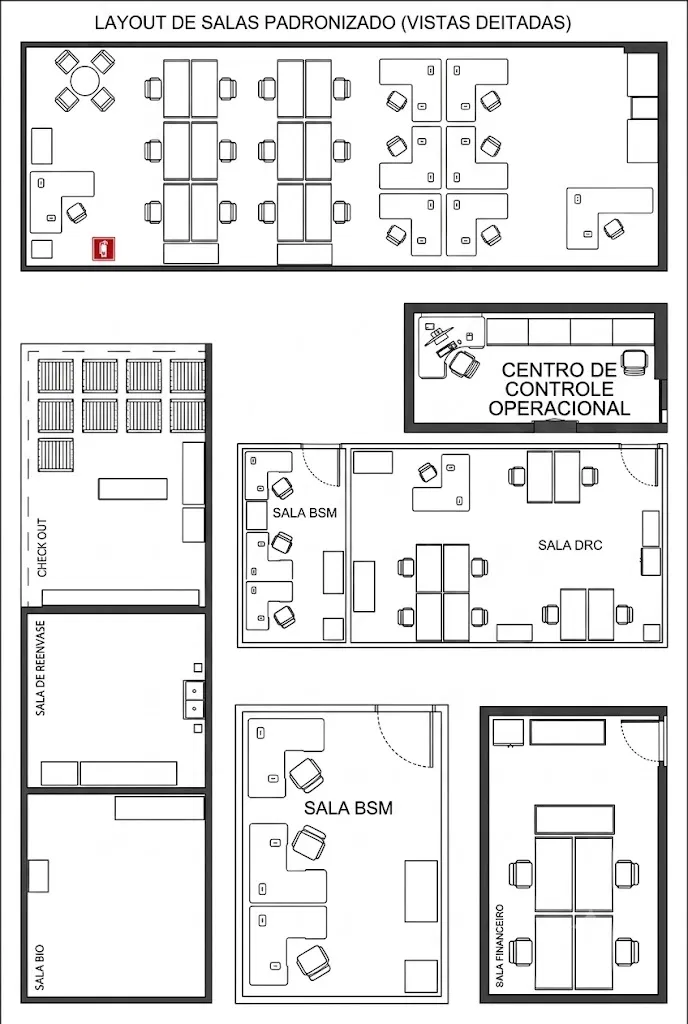
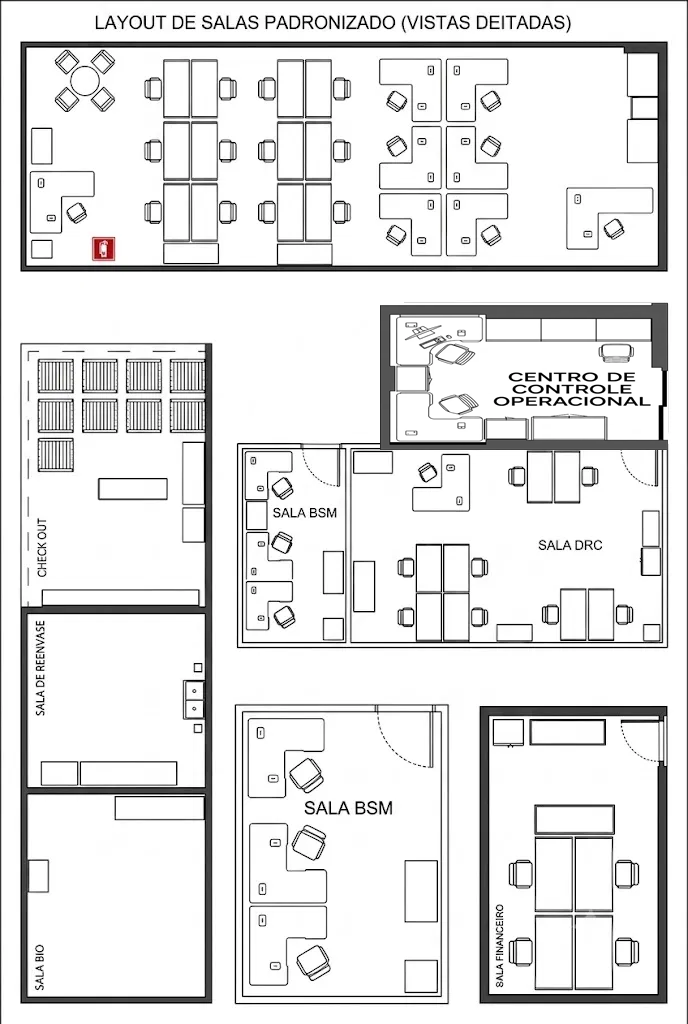
fix(pcs_internos): update CCO (Centro de Controle Operacional) section inside master floorplan to match real reference layout while keeping all other 7 rooms untouched

Changed region(s): [[0.5494, 0.2812, 0.9767, 0.4375]]

diff --git a/src/components/equipamentos/floorplanRooms.js b/src/components/equipamentos/floorplanRooms.js
@@ -1,8 +1,7 @@
 /**
  * floorplanRooms.js — Definição da Planta Espacial Única Padronizada
  * 
- * Reúne todas as 8 salas do TechControl em um único mapa interativo de alta definição (688 x 1024).
- * Suporta zoom, atalhos de seção e posicionamento dinâmico por coordenadas/porcentagem.
+ * Seção CCO (Centro de Controle Operacional) atualizada conforme o layout de referência real.
  */
 
 export const UNIFIED_FLOORPLAN = {
@@ -16,14 +15,14 @@ export const UNIFIED_FLOORPLAN = {
   sections: [
     { id: "all", label: "🗺 Planta Geral", viewBox: "0 0 688 1024" },
     { id: "adm", label: "🏢 ADM — 1º Andar", viewBox: "0 0 688 290" },
-    { id: "cco", label: "🖥 CCO", viewBox: "380 280 308 150" },
+    { id: "cco", label: "🖥 CCO", viewBox: "370 295 310 160" },
     { id: "bsm_drc", label: "📊 Sala BSM / DRC", viewBox: "230 425 458 230" },
     { id: "galpao", label: "📦 Galpão (Bio/Reenv/Check)", viewBox: "0 310 240 714" },
     { id: "bsm_terreo", label: "📋 Sala BSM (Térreo)", viewBox: "230 670 235 354" },
     { id: "financeiro", label: "💰 Sala Financeiro", viewBox: "460 670 228 354" },
   ],
 
-  // Assentos Predefinidos mapeados sobre o traço da imagem unificada (38 postos)
+  // Assentos Predefinidos mapeados sobre a planta unificada (incluindo o novo CCO)
   seats: [
     // ADM 1º Andar - Mesa Reunião Redonda (Top Left)
     { id: "ADM-01", codigo: "ADM-01", sala: "ADM — 1º Andar", x: 86, y: 45 },
@@ -62,9 +61,11 @@ export const UNIFIED_FLOORPLAN = {
     { id: "ADM-24", codigo: "ADM-24", sala: "ADM — 1º Andar", x: 638, y: 80 },
     { id: "ADM-25", codigo: "ADM-25", sala: "ADM — 1º Andar", x: 605, y: 210 },
 
-    // CCO - Centro de Controle Operacional (2 lugares)
-    { id: "CCO-01", codigo: "CCO-01", sala: "Centro de Controle Operacional", x: 460, y: 355 },
-    { id: "CCO-02", codigo: "CCO-02", sala: "Centro de Controle Operacional", x: 635, y: 355 },
+    // CCO - Centro de Controle Operacional (Novo Layout Real: 4 lugares fiéis)
+    { id: "CCO-01", codigo: "CCO-01", sala: "Centro de Controle Operacional", x: 425, y: 345 }, // Bancada L Top-Left
+    { id: "CCO-02", codigo: "CCO-02", sala: "Centro de Controle Operacional", x: 615, y: 348 }, // Cadeira Avulsa Top-Right
+    { id: "CCO-03", codigo: "CCO-03", sala: "Centro de Controle Operacional", x: 425, y: 412 }, // Bancada L Bot-Left
+    { id: "CCO-04", codigo: "CCO-04", sala: "Centro de Controle Operacional", x: 585, y: 412 }, // Cadeira Bot-Right (próximo aos móveis)
 
     // Galpão (3 lugares)
     { id: "CHK-01", codigo: "CHK-01", sala: "Check Out", x: 115, y: 475 },
@@ -93,7 +94,6 @@ export const UNIFIED_FLOORPLAN = {
   ]
 };
 
-// Mantido para compatibilidade com partes existentes do sistema
 export const SVG_ROOMS = {
   planta_padronizada: UNIFIED_FLOORPLAN,
   sala_financeiro: UNIFIED_FLOORPLAN,
